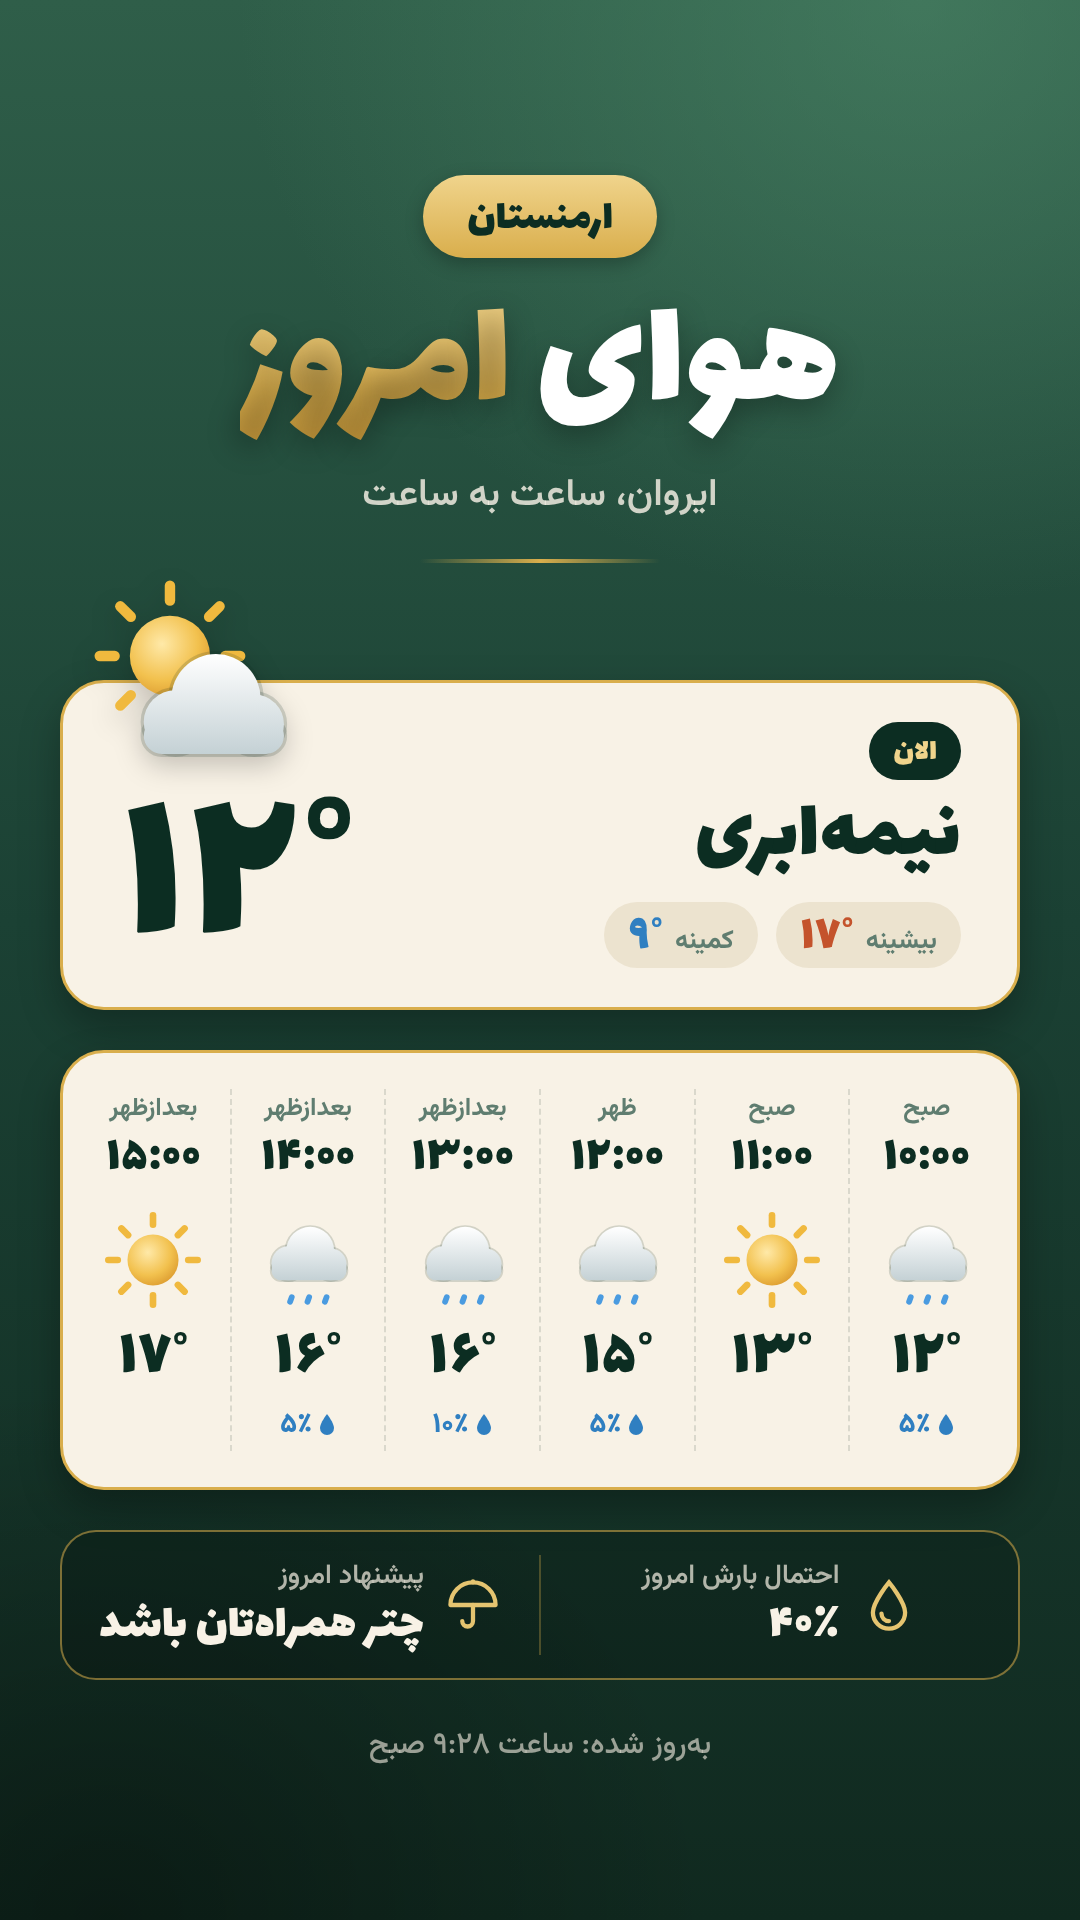
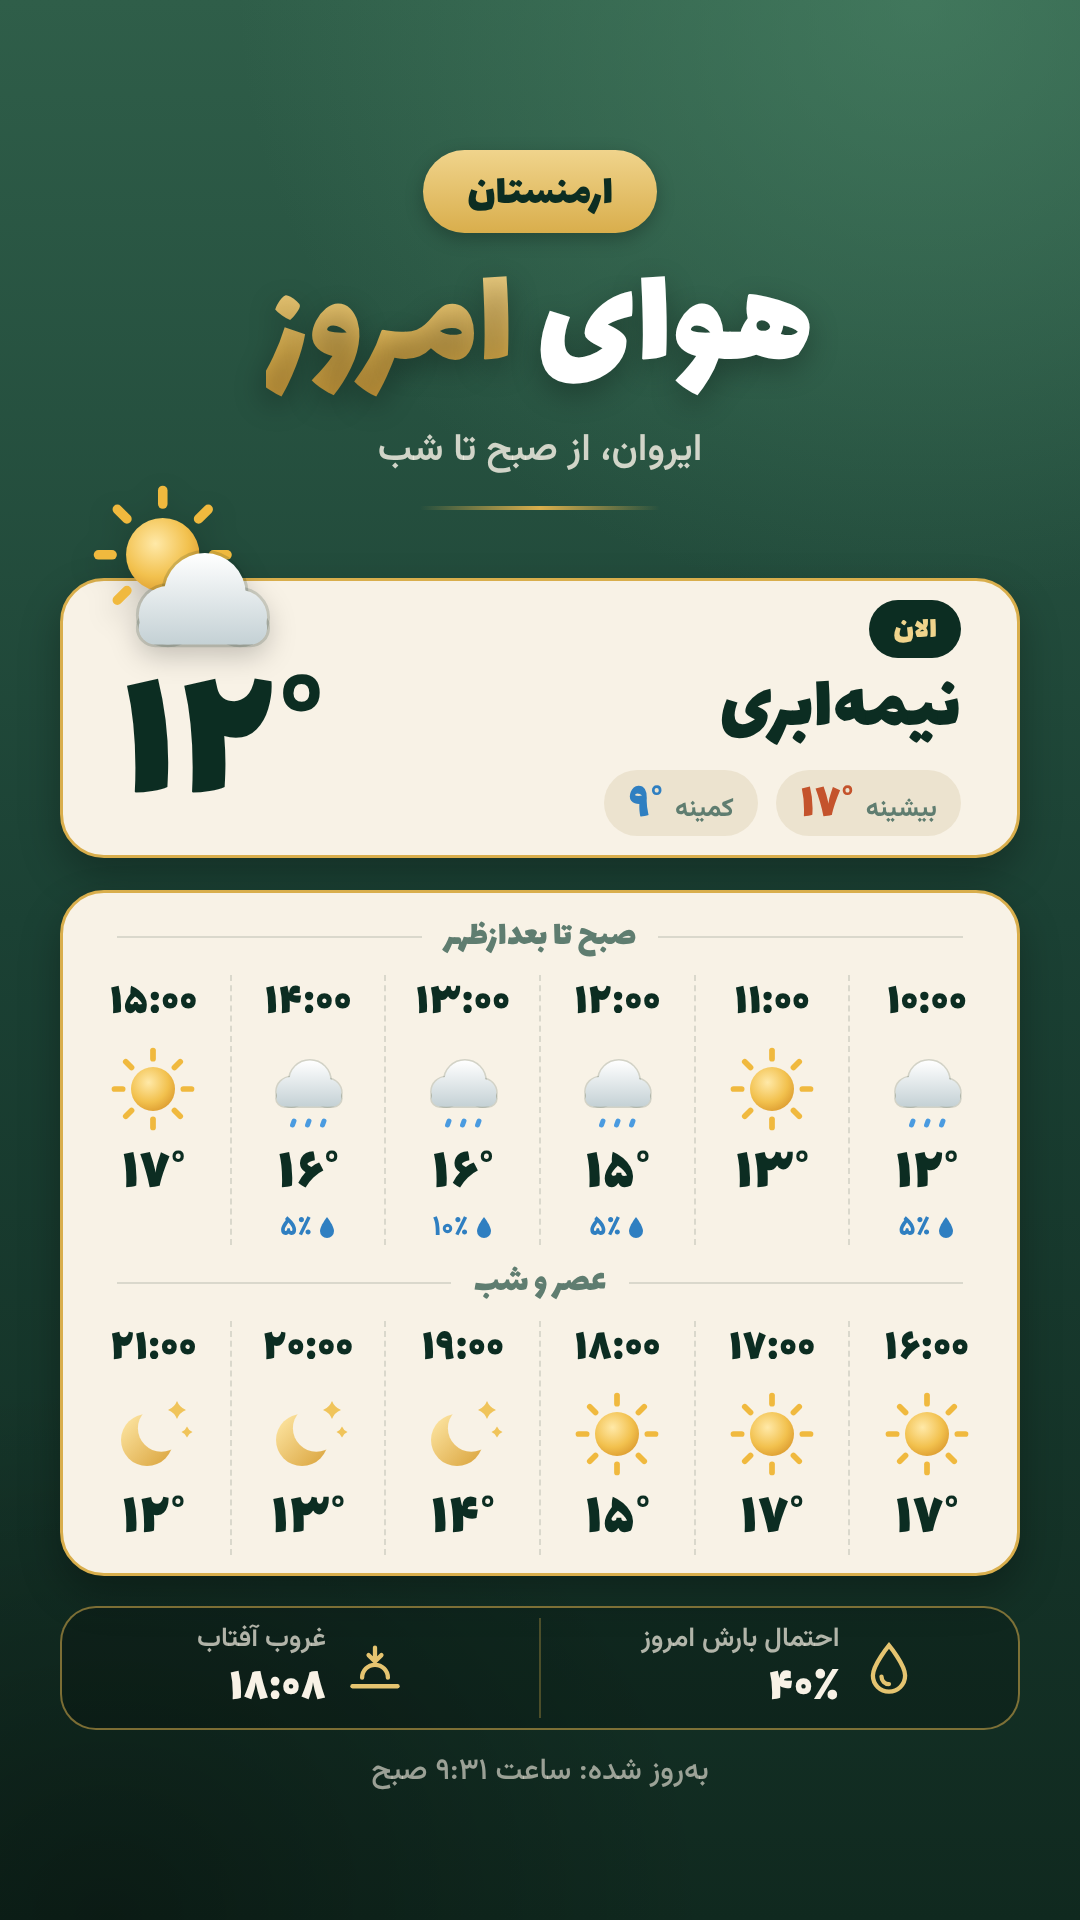
Weather story: add evening and night hours (16-21) and sunset
Claude-Session: https://claude.ai/code/session_01B7Dg58cD4JHDnfaJtnezZi

Changed region(s): [[0.0306, 0.0625, 0.9472, 0.9375]]

diff --git a/weather-story/story.html b/weather-story/story.html
@@ -35,7 +35,7 @@
   }
   .num { direction: ltr; unicode-bidi: isolate; display: inline-block; }
 
-  header { position: absolute; top: 175px; left: 0; right: 0; text-align: center; }
+  header { position: absolute; top: 150px; left: 0; right: 0; text-align: center; }
   .pill {
     display: inline-block;
     padding: 10px 44px 4px;
@@ -45,13 +45,13 @@
     font-size: 44px;
     box-shadow: 0 6px 18px rgba(0, 0, 0, .25);
   }
-  h1 { font-weight: 400; font-size: 160px; line-height: 1.15; margin-top: 18px; text-shadow: 0 10px 30px rgba(0, 0, 0, .3); }
+  h1 { font-weight: 400; font-size: 146px; line-height: 1.15; margin-top: 14px; text-shadow: 0 10px 30px rgba(0, 0, 0, .3); }
   h1 .gold {
     background: linear-gradient(180deg, #f7e2a6 0%, var(--gold-2) 60%, var(--gold-3) 100%);
     -webkit-background-clip: text; background-clip: text; color: transparent;
   }
   .sub { font-family: "Vazirmatn"; font-weight: 600; font-size: 38px; color: rgba(248, 242, 230, .82); margin-top: 6px; }
-  .rule { width: 240px; height: 4px; margin: 34px auto 0; border-radius: 4px; background: linear-gradient(90deg, transparent, var(--gold-2), transparent); }
+  .rule { width: 240px; height: 4px; margin: 26px auto 0; border-radius: 4px; background: linear-gradient(90deg, transparent, var(--gold-2), transparent); }
 
   .card {
     position: absolute; left: 60px; right: 60px;
@@ -62,30 +62,33 @@
     box-shadow: 0 18px 40px rgba(0, 0, 0, .28);
   }
 
-  .hero { top: 680px; height: 330px; display: flex; align-items: center; padding: 0 56px; }
+  .hero { top: 578px; height: 280px; display: flex; align-items: center; padding: 0 56px; }
   .hero .now { display: inline-block; padding: 6px 24px 2px; border-radius: 999px; background: var(--ink); color: var(--gold-1); font-size: 32px; }
-  .hero .cond { font-size: 86px; line-height: 1.2; margin-top: 6px; }
+  .hero .cond { font-size: 78px; line-height: 1.2; margin-top: 6px; }
   .hero .range { display: flex; gap: 18px; margin-top: 12px; }
   .chip { display: flex; align-items: baseline; gap: 12px; padding: 10px 24px 4px; border-radius: 999px; background: #ece3cf; }
   .chip .lbl { font-family: "Vazirmatn"; font-weight: 700; font-size: 26px; color: var(--muted); }
   .chip .val { font-size: 52px; line-height: 1; }
   .chip.hi .val { color: #c4532c; }
   .chip.lo .val { color: var(--rain); }
-  .hero .temp { margin-inline-start: auto; margin-top: 84px; font-size: 230px; line-height: 1; }
-  .hero .icon { position: absolute; left: 22px; top: -112px; width: 236px; height: 236px; filter: drop-shadow(0 10px 14px rgba(0, 0, 0, .22)); }
+  .hero .temp { margin-inline-start: auto; margin-top: 70px; font-size: 200px; line-height: 1; }
+  .hero .icon { position: absolute; left: 22px; top: -104px; width: 216px; height: 216px; filter: drop-shadow(0 10px 14px rgba(0, 0, 0, .22)); }
 
-  .timeline { top: 1050px; height: 440px; display: flex; padding: 36px 14px; }
+  .timeline { top: 890px; padding: 16px 14px 18px; }
+  .row { display: flex; }
+  .row-title { display: flex; align-items: center; gap: 22px; margin: 0 40px 10px; font-size: 36px; color: var(--muted); }
+  .row-title::before, .row-title::after { content: ""; flex: 1; height: 2px; background: rgba(12, 45, 34, .13); }
+  .row + .row-title { margin-top: 10px; }
   .slot { flex: 1; display: flex; flex-direction: column; align-items: center; }
   .slot + .slot { border-right: 2px dashed rgba(12, 45, 34, .13); }
-  .slot .part { font-family: "Vazirmatn"; font-weight: 700; font-size: 25px; color: var(--muted); }
-  .slot .hour { font-size: 52px; line-height: 1.2; }
-  .slot .icon { width: 116px; height: 116px; flex: none; margin: 12px 0 4px; }
-  .slot .temp { font-size: 68px; line-height: 1.1; }
-  .slot .rain { display: flex; align-items: center; gap: 6px; height: 40px; margin-top: 8px; font-family: "Vazirmatn"; font-weight: 800; font-size: 28px; color: var(--rain); }
+  .slot .hour { font-size: 48px; line-height: 1.2; }
+  .slot .icon { width: 100px; height: 100px; flex: none; margin: 6px 0 2px; }
+  .slot .temp { font-size: 62px; line-height: 1.1; }
+  .slot .rain { display: flex; align-items: center; gap: 6px; height: 34px; margin-top: 2px; font-family: "Vazirmatn"; font-weight: 800; font-size: 28px; color: var(--rain); }
   .slot .rain svg { width: 18px; height: 24px; }
 
   .details {
-    position: absolute; top: 1530px; left: 60px; right: 60px; height: 150px;
+    position: absolute; top: 1606px; left: 60px; right: 60px; height: 124px;
     display: flex; align-items: center;
     border-radius: 36px;
     border: 2px solid rgba(217, 174, 76, .55);
@@ -97,7 +100,7 @@
   .detail .lbl { font-family: "Vazirmatn"; font-weight: 600; font-size: 27px; color: rgba(248, 242, 230, .7); }
   .detail .val { font-size: 50px; line-height: 1.15; color: var(--cream); }
 
-  footer { position: absolute; top: 1722px; left: 0; right: 0; text-align: center; font-family: "Vazirmatn"; font-weight: 500; font-size: 30px; color: rgba(248, 242, 230, .6); }
+  footer { position: absolute; top: 1748px; left: 0; right: 0; text-align: center; font-family: "Vazirmatn"; font-weight: 500; font-size: 30px; color: rgba(248, 242, 230, .6); }
 </style>
 </head>
 <body>
@@ -114,11 +117,12 @@
   <footer id="foot"></footer>
 
 <script>
-  // From the iPhone Weather app (Yerevan), Sunday 25 Oct 2026, 09:28.
+  // From the iPhone Weather app (Yerevan), Sunday 25 Oct 2026, 09:28 and 09:31.
   // icon: sun | partly | cloud | drizzle | rain | storm | snow | fog | moon | moon-cloud
   const WEATHER = {
     city: 'ایروان',
-    updated: '9:28',
+    updated: '9:31',
+    sunset: '18:08',
     now: { temp: 12, condition: 'نیمهابری', icon: 'partly' },
     max: 17, min: 9,
     rainToday: 40,
@@ -129,13 +133,18 @@
       { hour: 13, icon: 'drizzle', temp: 16, rain: 10 },
       { hour: 14, icon: 'drizzle', temp: 16, rain: 5 },
       { hour: 15, icon: 'sun', temp: 17, rain: null },
+      { hour: 16, icon: 'sun', temp: 17, rain: null },
+      { hour: 17, icon: 'sun', temp: 17, rain: null },
+      { hour: 18, icon: 'sun', temp: 15, rain: null },
+      { hour: 19, icon: 'moon', temp: 14, rain: null },
+      { hour: 20, icon: 'moon', temp: 13, rain: null },
+      { hour: 21, icon: 'moon', temp: 12, rain: null },
     ],
   };
 
   const fa = n => n.toLocaleString('fa-IR', { useGrouping: false });
   const faDigits = s => s.replace(/\d/g, d => fa(+d));
   const deg = t => `<span class="num">${t < 0 ? '−' : ''}${fa(Math.abs(t))}°</span>`;
-  const partOfDay = h => h < 12 ? 'صبح' : h < 13 ? 'ظهر' : h < 17 ? 'بعدازظهر' : h < 20 ? 'عصر' : 'شب';
 
   // ---- icons (viewBox 0 0 100 100) ----
   let uid = 0;
@@ -153,6 +162,10 @@
     return `<defs><mask id="${id}"><rect width="100" height="100" fill="#fff"/><circle cx="${cx + r * .55}" cy="${cy - r * .45}" r="${r * .9}" fill="#000"/></mask>
       <linearGradient id="${g}" x1="0" y1="0" x2="1" y2="1"><stop offset="0" stop-color="#ffe9a8"/><stop offset="1" stop-color="#d9a23a"/></linearGradient></defs>
       <circle cx="${cx}" cy="${cy}" r="${r}" fill="url(#${g})" mask="url(#${id})"/>`;
+  };
+  const sparkle = (cx, cy, r) => {
+    const q = r * .28;
+    return `<path d="M${cx} ${cy - r}Q${cx + q} ${cy - q} ${cx + r} ${cy}Q${cx + q} ${cy + q} ${cx} ${cy + r}Q${cx - q} ${cy + q} ${cx - r} ${cy}Q${cx - q} ${cy - q} ${cx} ${cy - r}z" fill="#f0c45a"/>`;
   };
   const cloud = (dx, dy, k, dark = false) => {
     const id = 'cg' + uid++;
@@ -177,18 +190,19 @@
     storm: () => cloud(-2, -8, .98, true) + '<polygon points="52,66 40,86 50,86 44,99 62,78 52,78 58,66" fill="#f2c14e" stroke="#c98a1f" stroke-width="1.5" stroke-linejoin="round"/>',
     snow: () => cloud(-2, -6, .98) + [38, 52, 66].map(x => `<circle cx="${x}" cy="88" r="4.5" fill="#fff" stroke="#9fc6e8" stroke-width="2"/>`).join(''),
     fog: () => cloud(-2, -10, .98) + [76, 86].map((y, i) => `<line x1="${22 + i * 8}" y1="${y}" x2="${78 + i * 4}" y2="${y}" stroke="#a9b8bc" stroke-width="6" stroke-linecap="round"/>`).join(''),
-    moon: () => moon(48, 52, 26),
+    moon: () => moon(44, 56, 26) + sparkle(74, 26, 9) + sparkle(84, 48, 5.5),
     'moon-cloud': () => moon(38, 36, 19) + cloud(6, 12, .9),
   };
   const icon = name => `<svg class="icon" viewBox="0 0 100 100" xmlns="http://www.w3.org/2000/svg">${(ICONS[name] || ICONS.cloud)()}</svg>`;
   const DROP = '<svg viewBox="0 0 18 24"><path d="M9 1C9 1 2 10 2 15a7 7 0 0 0 14 0C16 10 9 1 9 1z" fill="currentColor"/></svg>';
   const DETAIL_ICONS = {
     rain: '<svg viewBox="0 0 54 54"><path d="M27 6S12 24 12 34a15 15 0 0 0 30 0C42 24 27 6 27 6z" fill="none" stroke="#e5c470" stroke-width="4"/><path d="M20 35a7 7 0 0 0 7 7" fill="none" stroke="#e5c470" stroke-width="4" stroke-linecap="round"/></svg>',
+    sunset: '<svg viewBox="0 0 54 54" fill="none" stroke="#e5c470" stroke-width="4" stroke-linecap="round"><path d="M15 36a12 12 0 0 1 24 0"/><path d="M6 44h42"/><path d="M27 8v12M21 15l6 6 6-6"/></svg>',
     umbrella: '<svg viewBox="0 0 54 54" fill="none" stroke="#e5c470" stroke-width="4" stroke-linecap="round" stroke-linejoin="round"><path d="M6 27a21 21 0 0 1 42 0z"/><path d="M27 27v15a5 5 0 0 1-10 0"/><path d="M27 6v-1"/></svg>',
   };
 
   const W = WEATHER;
-  document.getElementById('sub').textContent = `${W.city}، ساعت به ساعت`;
+  document.getElementById('sub').textContent = `${W.city}، از صبح تا شب`;
 
   document.getElementById('hero').innerHTML = `
     ${icon(W.now.icon)}
@@ -202,18 +216,23 @@
     </div>
     <div class="temp">${deg(W.now.temp)}</div>`;
 
-  document.getElementById('timeline').innerHTML = W.slots.map(s => `
+  const slot = rainRow => s => `
     <div class="slot">
-      <div class="part">${partOfDay(s.hour)}</div>
       <div class="hour"><span class="num">${fa(s.hour)}:۰۰</span></div>
       ${icon(s.icon)}
       <div class="temp">${deg(s.temp)}</div>
-      <div class="rain">${s.rain == null ? '' : `${DROP}<span class="num">${fa(s.rain)}٪</span>`}</div>
-    </div>`).join('');
+      ${rainRow ? `<div class="rain">${s.rain == null ? '' : `${DROP}<span class="num">${fa(s.rain)}٪</span>`}</div>` : ''}
+    </div>`;
+  const day = W.slots.filter(s => s.hour < 16), evening = W.slots.filter(s => s.hour >= 16);
+  // a row with no rain chance at all drops the rain line instead of leaving it blank
+  const row = slots => `<div class="row">${slots.map(slot(slots.some(s => s.rain != null))).join('')}</div>`;
+  document.getElementById('timeline').innerHTML = `
+    <div class="row-title">صبح تا بعدازظهر</div>${row(day)}
+    <div class="row-title">عصر و شب</div>${row(evening)}`;
 
   document.getElementById('details').innerHTML = `
     <div class="detail">${DETAIL_ICONS.rain}<div><div class="lbl">احتمال بارش امروز</div><div class="val"><span class="num">${fa(W.rainToday)}٪</span></div></div></div>
-    <div class="detail">${DETAIL_ICONS.umbrella}<div><div class="lbl">پیشنهاد امروز</div><div class="val">چتر همراهتان باشد</div></div></div>`;
+    <div class="detail">${DETAIL_ICONS.sunset}<div><div class="lbl">غروب آفتاب</div><div class="val"><span class="num">${faDigits(W.sunset)}</span></div></div></div>`;
 
   document.getElementById('foot').textContent = `بهروز شده: ساعت ${faDigits(W.updated)} صبح`;
 </script>
